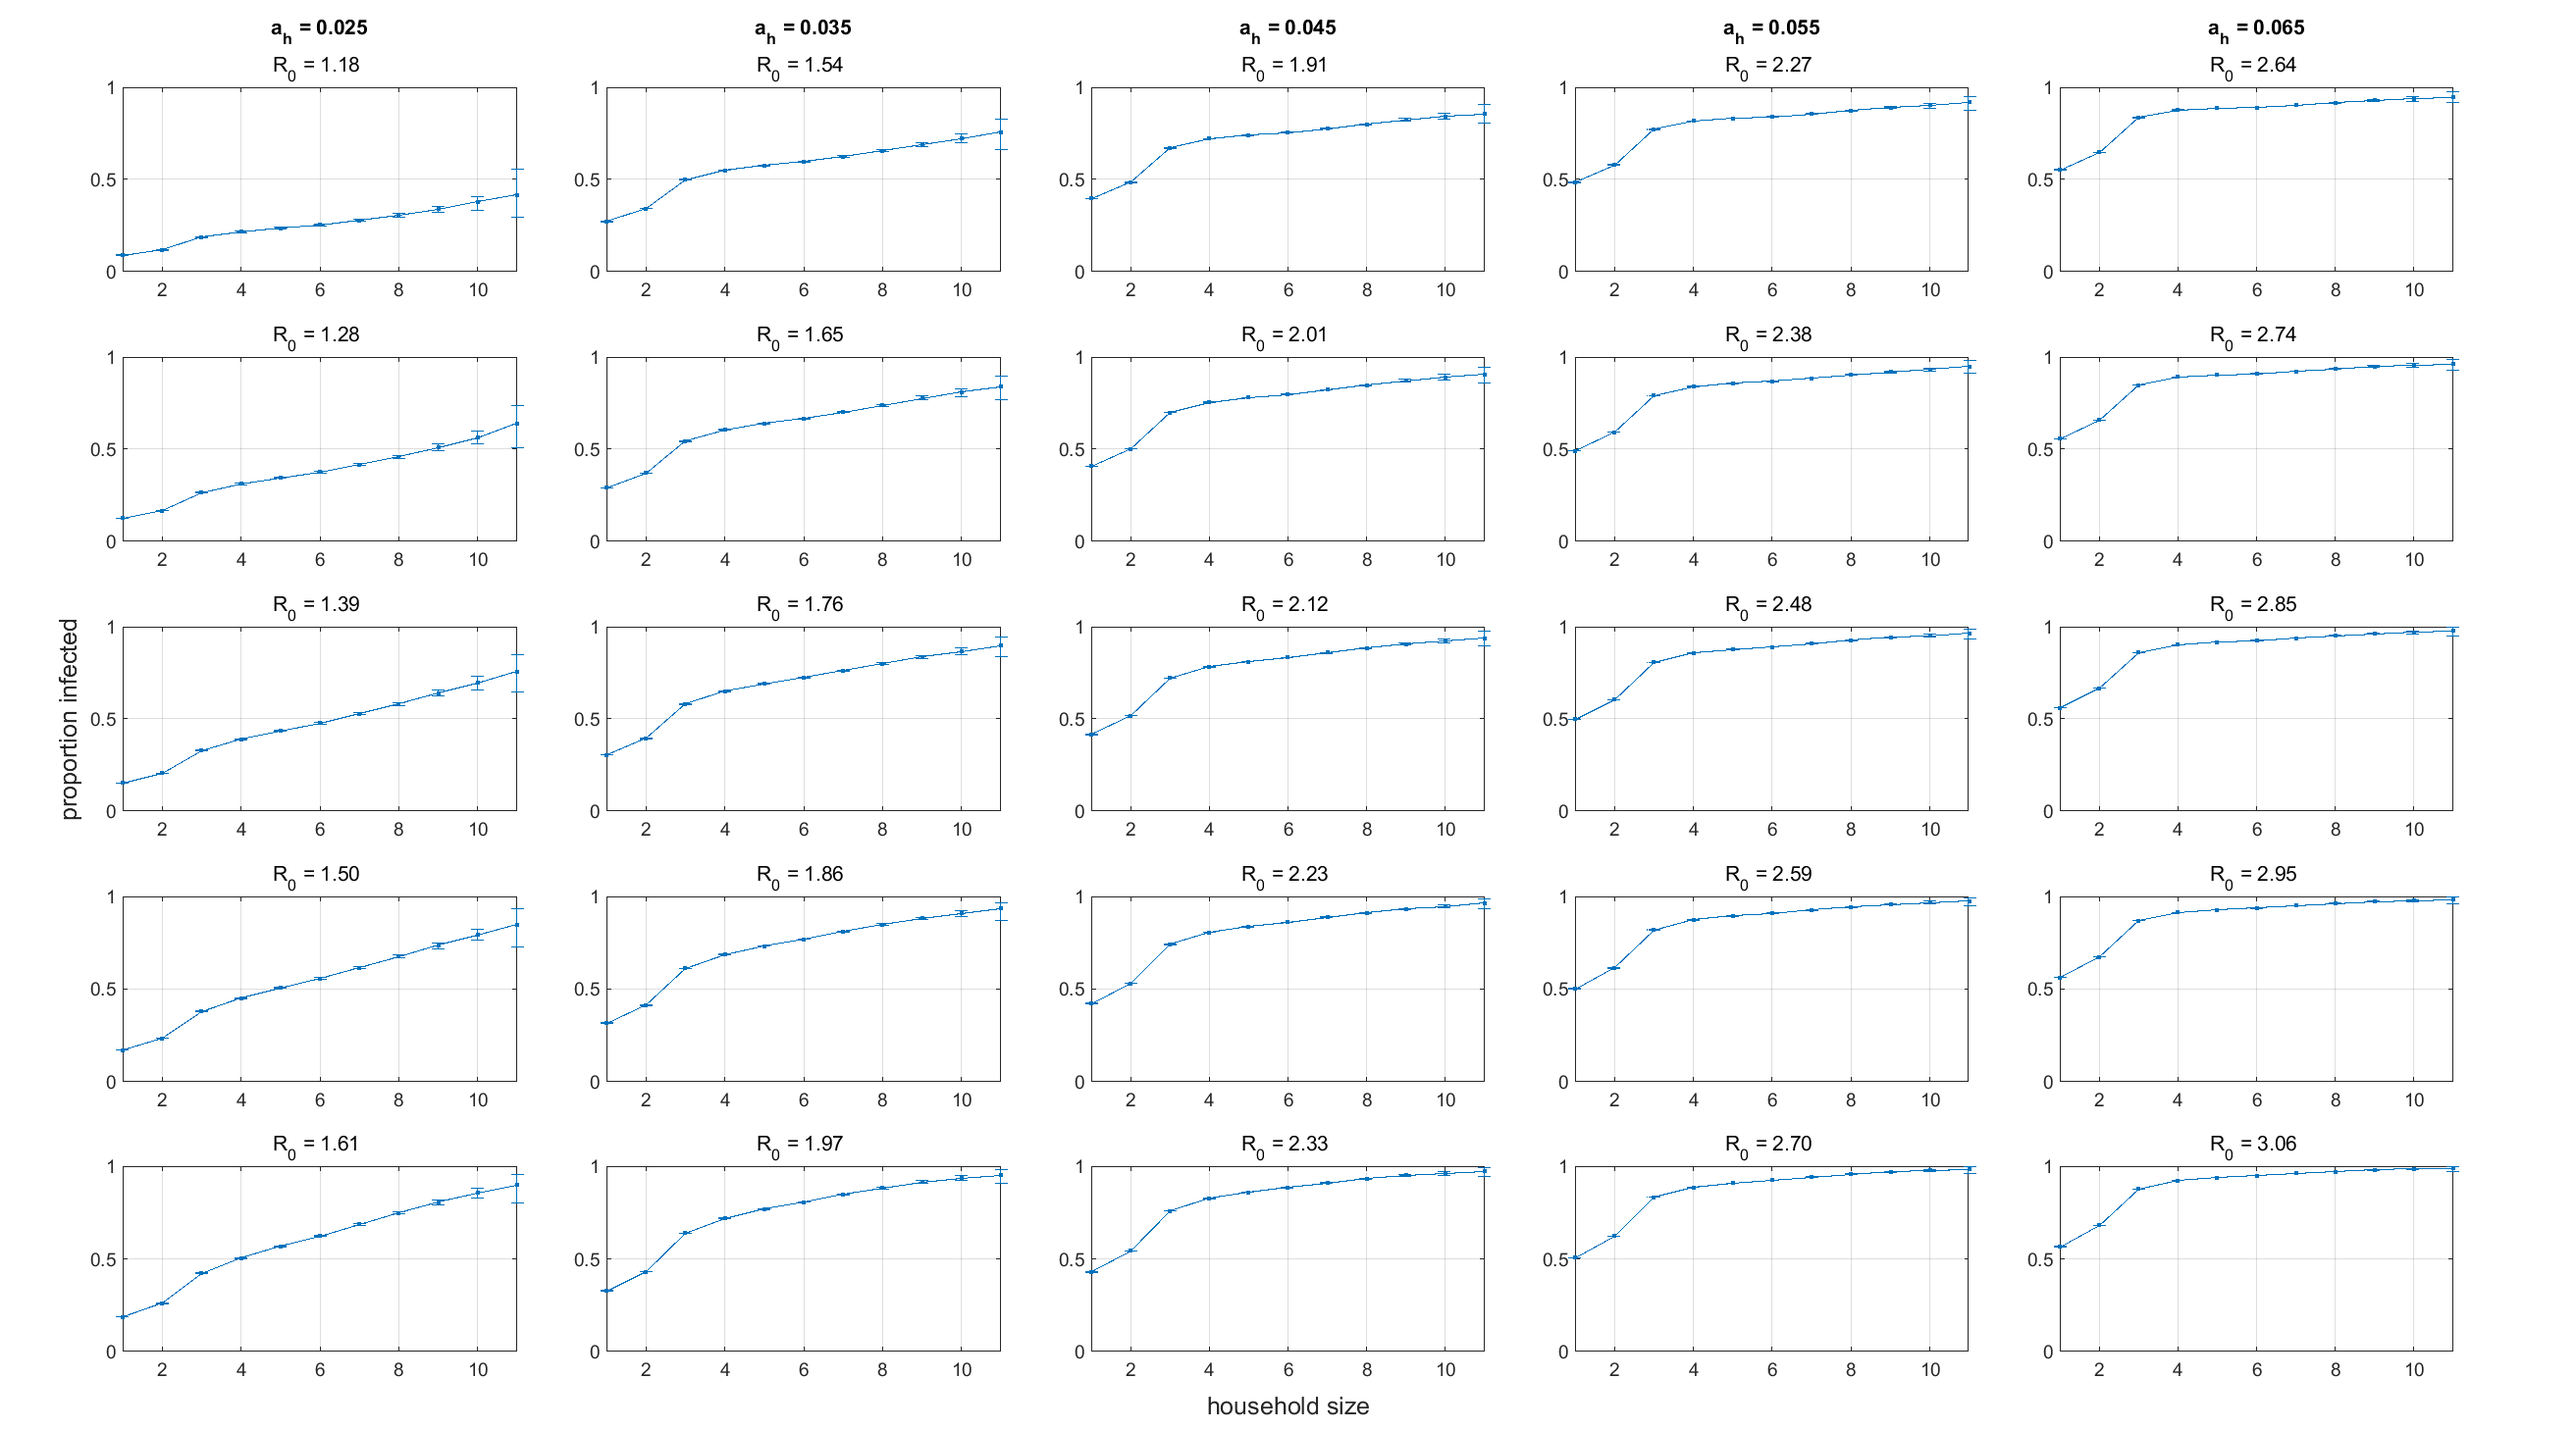
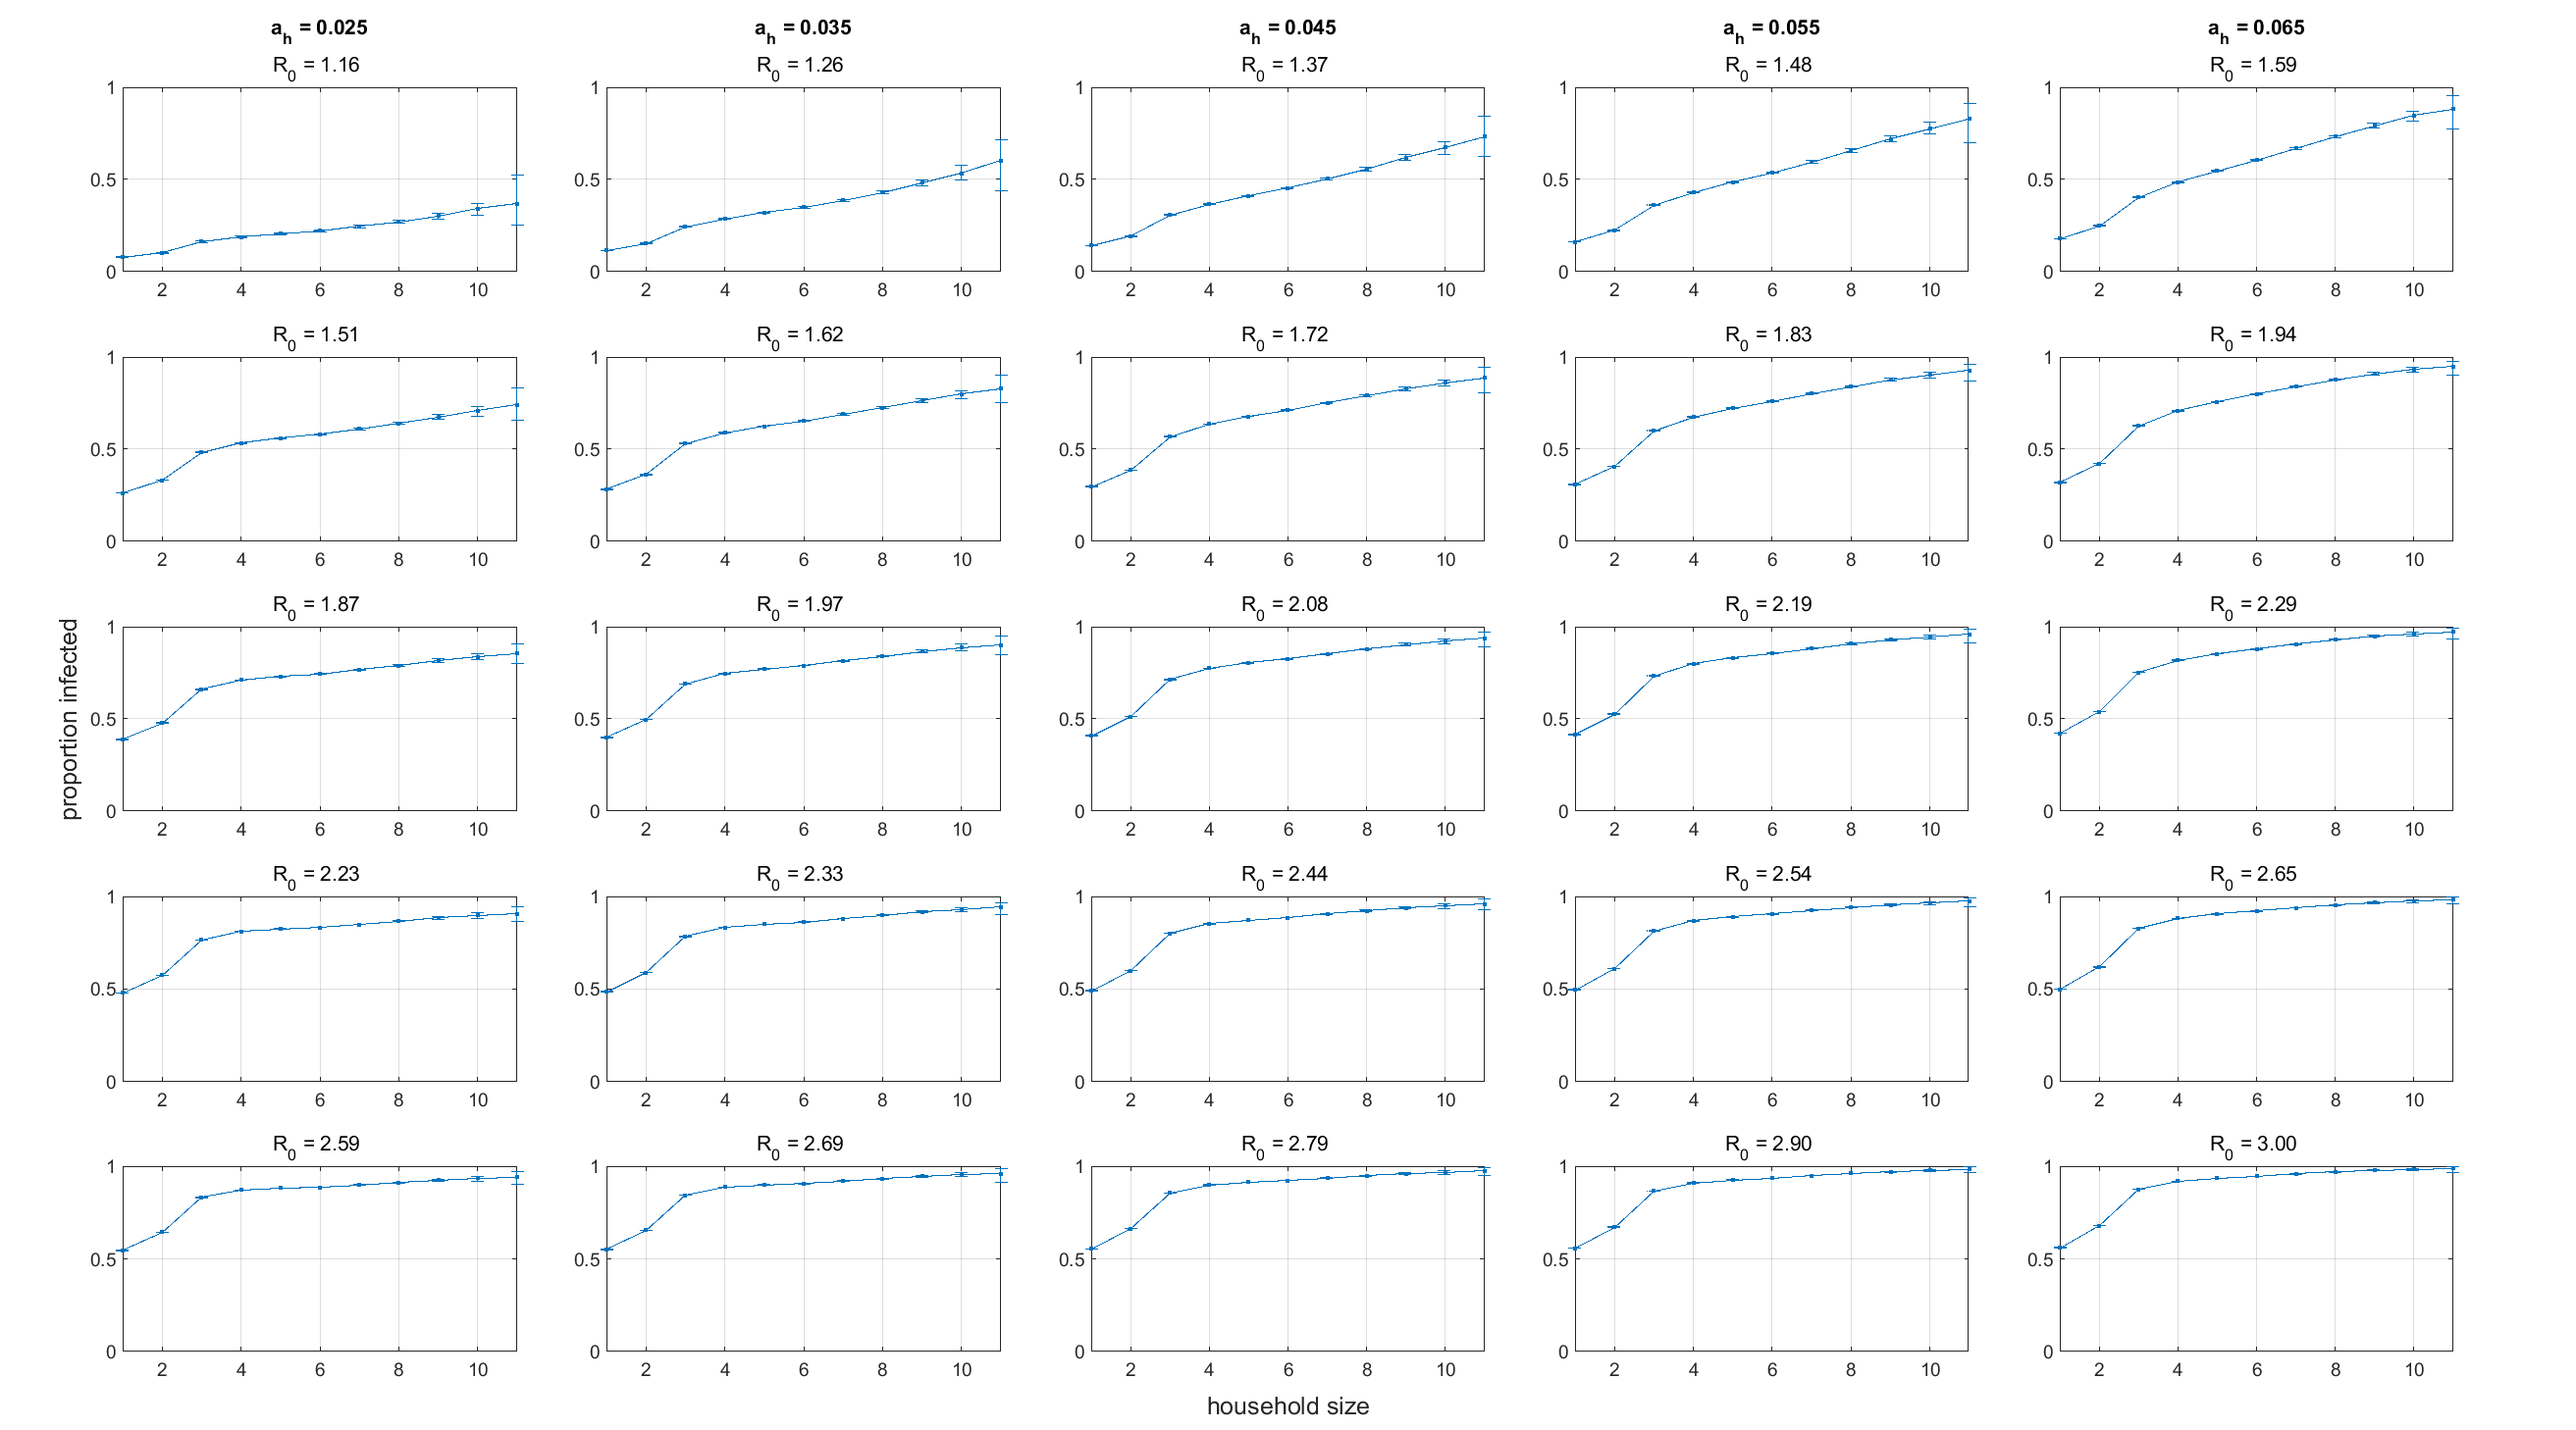
Updated imputation
Imputation procedure adjusted so that weights ck on household types are normalised by household size.

Also fixed a bug in main.m that meant the final size plots in Fig 4 (etc.) were transposed and so didn't match up to the labels for the parameters ah and an.

diff --git a/main.m b/main.m
@@ -7,7 +7,7 @@ close all
 %%%%%%%%%%%%%%%%%%%%%%%%%%%%%%%%%%%%%%%%%%%%%%%%%%%%%%%%%%%%%%%%%%%%%
 
 % Number of realisations of the synthetic pop and ABM to run:
-nReps = 0;
+nReps = 1;
 Alpha = 0.05;           % Alpha level for confidence intervals
 
 % Numerical parameters - range of values for ah and an
@@ -78,7 +78,7 @@ tblRaw = getHouseholdData(fNameData);
 [Craw, popSizeRaw] = makeHouseholdContMat(tblRaw);
 
 % Impute data for missing part of pop by adjusting frequency of household types
-x = imputeHouseholdData(tblRaw, popSizeCensus10);
+x = imputeHouseholdData(tblRaw, popSizeCensus10, 1);
 tbl = tblRaw;
 tbl.Count = x;
 
@@ -142,10 +142,10 @@ parfor iChangeAll = 1:nChange1*nChange2
     fprintf('   done %i/%i\n', iChangeAll, nChange1*nChange2)
 end
 % Reshape results sturcutre arrays into 2D arrays corresponding to the two varied parameters:
-results_Prem = reshape(results_Prem, nChange2, nChange1)';
-results_HH5  = reshape(results_HH5, nChange2, nChange1)';
-results_HH10 = reshape(results_HH10, nChange2, nChange1)';
-results_ABM  = reshape(results_ABM, nChange2, nChange1)';
+results_Prem = reshape(results_Prem, nChange1, nChange2)';
+results_HH5  = reshape(results_HH5, nChange1, nChange2)';
+results_HH10 = reshape(results_HH10, nChange1, nChange2)';
+results_ABM  = reshape(results_ABM, nChange1, nChange2)';
 
 
 
@@ -178,7 +178,7 @@ if savFlag
     save(savFolder+"results.mat");
 end
 
-
+%%
 
 % Plot graphs
 h = figure(1);
@@ -286,9 +286,9 @@ if savFlag
     saveas(h, savFolder+'Fig3.png');
 end
 
-R0_Prem = reshape([results_Prem.R0], nChange1, nChange2);
-R0_HH5 = reshape([results_HH5.R0], nChange1, nChange2);
-R0_HH10 = reshape([results_HH10.R0], nChange1, nChange2);
+R0_Prem = reshape([results_Prem.R0], nChange2, nChange1);
+R0_HH5 = reshape([results_HH5.R0], nChange2, nChange1);
+R0_HH10 = reshape([results_HH10.R0], nChange2, nChange1);
 
 h = figure(4);
 h.Position = [ 1          41        1680         933];
@@ -296,7 +296,7 @@ tl = tiledlayout(nChange2, nChange1, 'Padding', 'Compact');
 for iChange2 = 1:nChange2
     for iChange1 = 1:nChange1
         nexttile
-        plot(age5+2.5, results_Prem(iChange1, iChange2).finalSize, '.-', age5+2.5, results_HH5(iChange1, iChange2).finalSize, '.-', age10+5, results_HH10(iChange1, iChange2).finalSize, '.-', age10+5, results_ABM(iChange1, iChange2).finalSize, '.-')
+        plot(age5+2.5, results_Prem(iChange2, iChange1).finalSize, '.-', age5+2.5, results_HH5(iChange2, iChange1).finalSize, '.-', age10+5, results_HH10(iChange2, iChange1).finalSize, '.-', age10+5, results_ABM(iChange2, iChange1).finalSize, '.-')
         grid on
         if iChange1 == 1 && iChange2 == 1
             legend('Prem-ODE(5)', 'Household-ODE(5)', 'Household-ODE(10)', 'Household-ABM(10)')
@@ -304,7 +304,7 @@ for iChange2 = 1:nChange2
        ylim([0 1])
        xlabel(tl, 'age (years)');
        ylabel(tl, 'proportion infected')
-       subtitle(sprintf('R_0 = %.2f ', R0_HH10(iChange1, iChange2) ));
+       subtitle(sprintf('R_0 = %.2f ', R0_HH10(iChange2, iChange1) ));
        if iChange2 == 1
             title(sprintf('a_h = %.3f', aRateHouse(iChange1)));
        end
@@ -324,15 +324,15 @@ tl = tiledlayout(nChange2, nChange1, 'Padding', 'Compact');
 for iChange2 = 1:nChange2
     for iChange1 = 1:nChange1
        nexttile
-       med = results_ABM(iChange1, iChange2).finalSize_med;
-       neg = results_ABM(iChange1, iChange2).finalSize_med - results_ABM(iChange1, iChange2).finalSize_lo;
-       pos = results_ABM(iChange1, iChange2).finalSize_hi - results_ABM(iChange1, iChange2).finalSize_med;
+       med = results_ABM(iChange2, iChange1).finalSize_med;
+       neg = results_ABM(iChange2, iChange1).finalSize_med - results_ABM(iChange2, iChange1).finalSize_lo;
+       pos = results_ABM(iChange2, iChange1).finalSize_hi - results_ABM(iChange2, iChange1).finalSize_med;
        errorbar(age10+5, med, neg, pos, '.-')
        grid on
        ylim([0 1])
        xlabel(tl, 'age (years)');
        ylabel(tl, 'proportion infected')
-       subtitle(sprintf('R_0 = %.2f ', R0_HH10(iChange1, iChange2) ));
+       subtitle(sprintf('R_0 = %.2f ', R0_HH10(iChange2, iChange1) ));
        if iChange2 == 1
             title(sprintf('a_h = %.3f', aRateHouse(iChange1)));
        end
@@ -353,16 +353,16 @@ tl = tiledlayout(nChange2, nChange1, 'Padding', 'Compact');
 for iChange2 = 1:nChange2
     for iChange1 = 1:nChange1
        nexttile
-       med = results_ABM(iChange1, iChange2).finalSize_byHH_med;
-       neg = results_ABM(iChange1, iChange2).finalSize_byHH_med - results_ABM(iChange1, iChange2).finalSize_byHH_lo;
-       pos = results_ABM(iChange1, iChange2).finalSize_byHH_hi - results_ABM(iChange1, iChange2).finalSize_byHH_med;
+       med = results_ABM(iChange2, iChange1).finalSize_byHH_med;
+       neg = results_ABM(iChange2, iChange1).finalSize_byHH_med - results_ABM(iChange2, iChange1).finalSize_byHH_lo;
+       pos = results_ABM(iChange2, iChange1).finalSize_byHH_hi - results_ABM(iChange2, iChange1).finalSize_byHH_med;
        errorbar(1:maxHHsize, med, neg, pos, '.-')
        grid on
        ylim([0 1])
        xlim([1 maxHHsize])
        xlabel(tl, 'household size');
        ylabel(tl, 'proportion infected')
-       subtitle(sprintf('R_0 = %.2f ', R0_HH10(iChange1, iChange2) ));
+       subtitle(sprintf('R_0 = %.2f ', R0_HH10(iChange2, iChange1) ));
        if iChange2 == 1
             title(sprintf('a_h = %.3f', aRateHouse(iChange1)));
        end

diff --git a/functions/imputeHouseholdData.m b/functions/imputeHouseholdData.m
@@ -1,6 +1,5 @@
-function x = imputeHouseholdData(tbl, targetPop)
+function x = imputeHouseholdData(tbl, targetPop, displayFlag)
 
-%fprintf('Running imputation... ')
 
 minFreq = 4;
 
@@ -8,6 +7,7 @@ minFreq = 4;
 maxIter = 1e6;
 fTol = 0.01;
 
+hhSize = sum(tbl.HHfreq, 2);
 x = tbl.Count;
 nHouseTypes = length(x);
 nToAdd = 1;
@@ -18,23 +18,16 @@ ii = 1;
 done = false;
 while ~done && ii <= maxIter
     popDf = targetPop - popSizeCurrent;
-    ck = (tbl.HHfreq * popDf);                               % cosine angle between the pop discrepancy vector and the age composition vector for each household type
-    
+    ck = (tbl.HHfreq * popDf)./hhSize;                               % weight ck for each household type according to how similar it is to the pop discrepancy vector
 
-     weights = tbl.Count.*abs(ck);
-     k = randsample(nHouseTypes, nToAdd, true, weights); 
-
+    weights = tbl.Count.*abs(ck);
+    k = randsample(nHouseTypes, nToAdd, true, weights); 
     x(k) = max(minFreq, x(k)+sign(weights(k)) );
-
-    
 
     popSizeCurrent = sum(tbl.HHfreq.*x, 1)';
 
-    %fprintf('i = %i, total pop = %i \n', ii, sum(popSizeCurrent));
-
     done = norm(popSizeCurrent - targetPop)/norm(targetPop) < fTol ;
     ii = ii+1;
-
 end
 
 Dx = x-tbl.Count;
@@ -45,8 +38,9 @@ nRemoved = -sum(tbl.totHHsize(Dx < 0).*Dx(Dx < 0));
 nHousesRemoved = -sum(Dx(Dx < 0));
 nTypesRemoved = sum(Dx < 0);
 
-%fprintf('complete with %i individuals in %i households of %i distinct types added and %i individuals in %i households of %i distinct types removed\n', nAdded, nHousesAdded, nTypesAdded, nRemoved, nHousesRemoved, nTypesRemoved)
-
+if displayFlag
+    fprintf('Imputation added %i individuals in %i households of %i distinct types and removed %i individuals in %i households of %i distinct types\n', nAdded, nHousesAdded, nTypesAdded, nRemoved, nHousesRemoved, nTypesRemoved)
+end
 
 
 

diff --git a/functions/parfor_func.m b/functions/parfor_func.m
@@ -20,7 +20,7 @@ if nReps > 0
     fs_size = zeros(nReps, maxHHsize);
     for iRep = 1:nReps
         tblInd = tblRaw;
-        tblInd.Count = imputeHouseholdData(tblRaw, popSize10);
+        tblInd.Count = imputeHouseholdData(tblRaw, popSize10, 0);
         synPopInd = makeSynPop(tblInd);
         resultsTemp  = getABMResults( synPopInd, a_h, a_n*Pn10, par10 );
         fs_age(iRep, :) = resultsTemp.finalSize;
